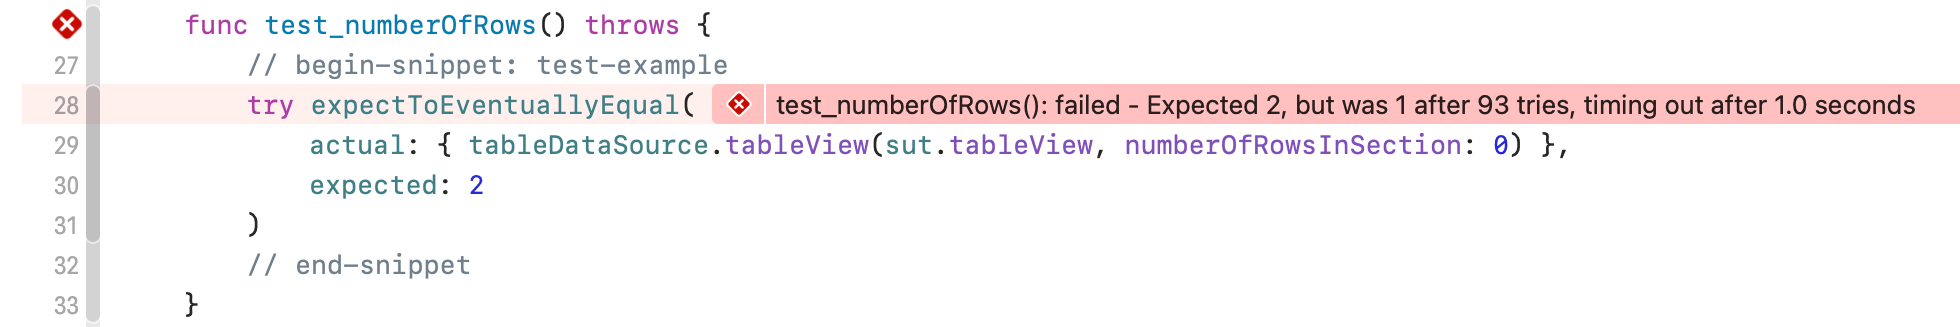
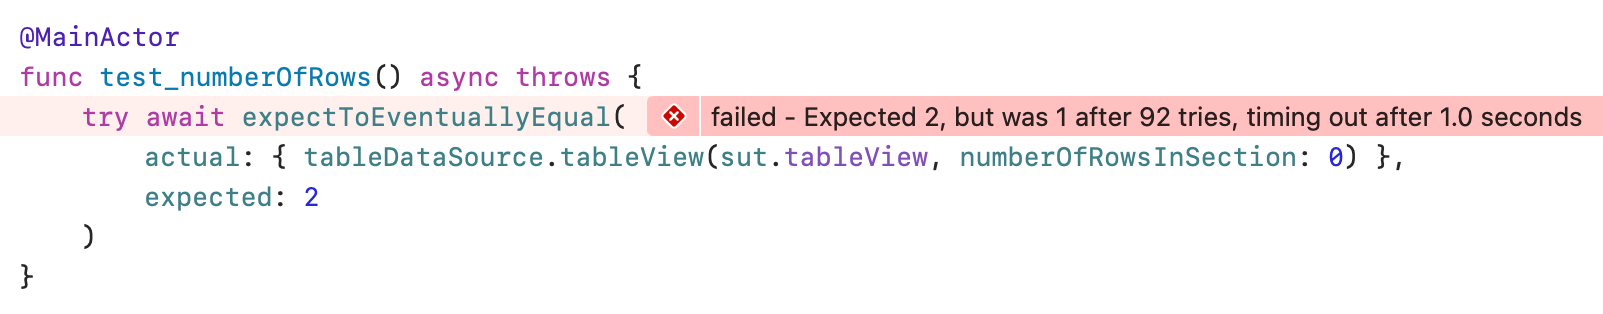
- b Fix concurrency warnings by running on main actor
Warning: Sending main actor-isolated value of type '() async -> Int' with later accesses to
nonisolated context risks causing data races; this is an error in the Swift 6 language mode

Changed region(s): [[0.0, 0.0287, 1.0, 0.9745], [0.1248, 0.7739, 0.2495, 0.8599]]

diff --git a/SampleApp/SampleAppTests/TableViewControllerTests.swift b/SampleApp/SampleAppTests/TableViewControllerTests.swift
@@ -27,15 +27,17 @@ final class TableViewControllerTests: XCTestCase, Sendable {
         try await super.tearDown()
     }
 
+    // begin-snippet: test-example
+    @MainActor
     func test_numberOfRows() async throws {
-        // begin-snippet: test-example
         try await expectToEventuallyEqual(
             actual: { tableDataSource.tableView(sut.tableView, numberOfRowsInSection: 0) },
             expected: 2
         )
-        // end-snippet
     }
+    // end-snippet
 
+    @MainActor
     func test_secondRowShowsBookTitle() async throws {
         try await expectToEventuallyEqual(
             actual: { cellForRow(1).textLabel?.text ?? "" },
@@ -43,6 +45,7 @@ final class TableViewControllerTests: XCTestCase, Sendable {
         )
     }
 
+    @MainActor
     func test_secondRowShowsBookAuthor_FAILURE_DEMONSTRATION() async throws {
         XCTExpectFailure("Demonstrate failure message")
         try await expectToEventuallyEqual(

diff --git a/Sources/ExpectToEventuallyEqual/ExpectToEventuallyEqual.swift b/Sources/ExpectToEventuallyEqual/ExpectToEventuallyEqual.swift
@@ -8,6 +8,7 @@ import XCTest
 import Testing
 #endif
 
+@MainActor
 public func expectToEventuallyEqual<T: Equatable>(
     actual: () async throws -> T,
     expected: T,
